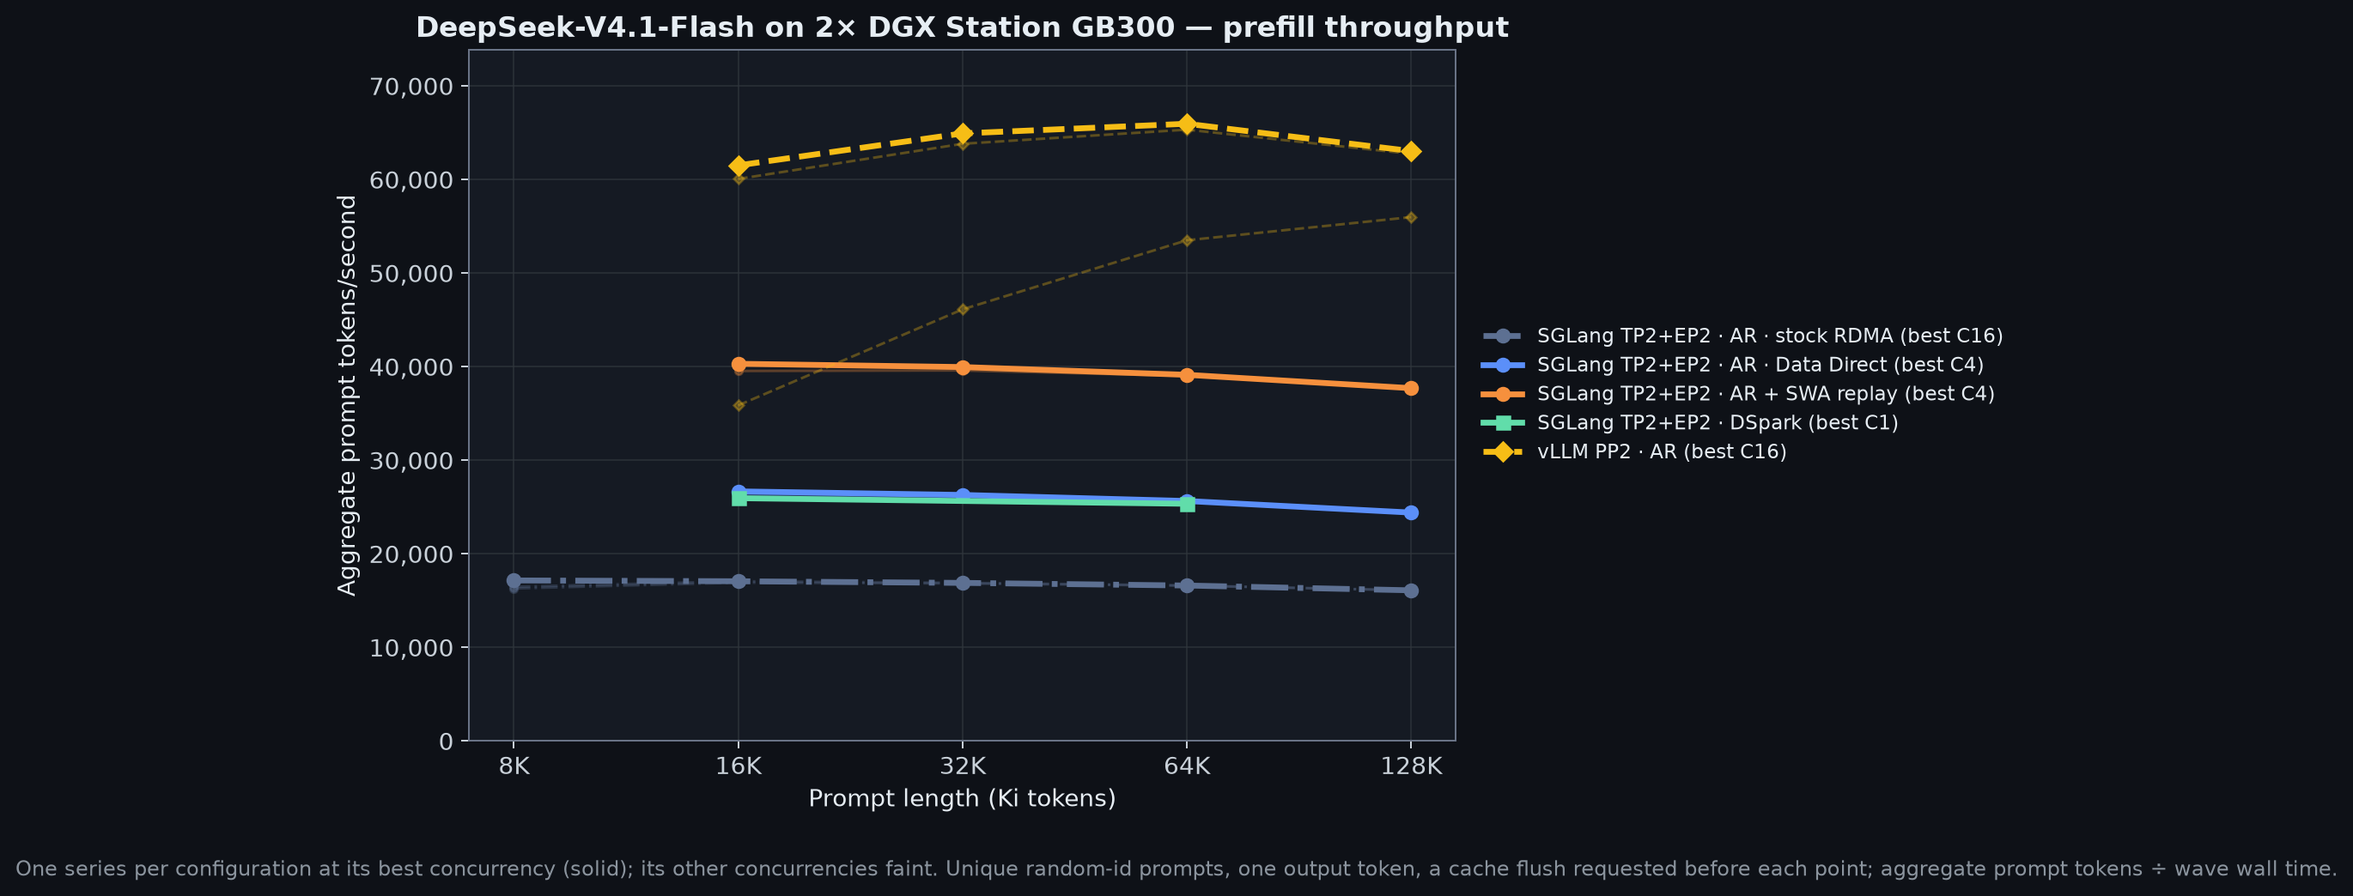
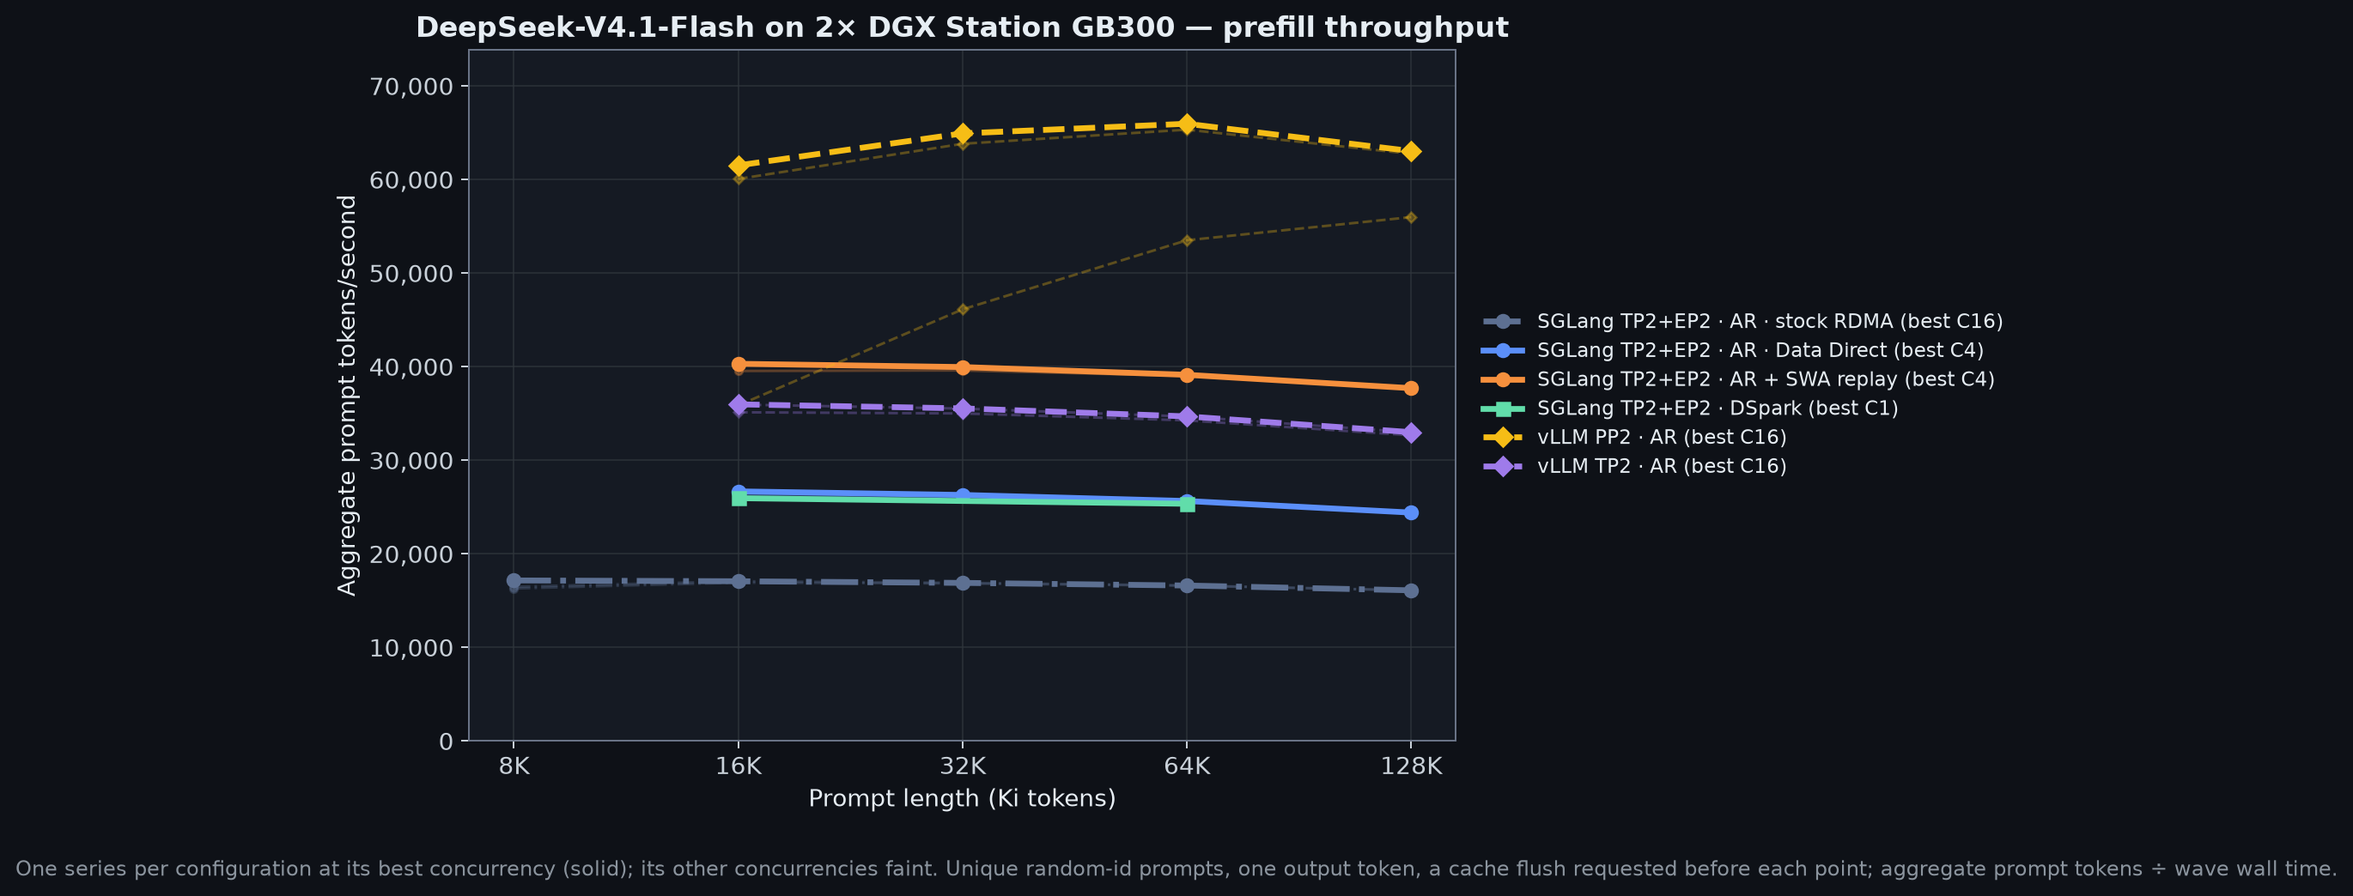
Add vLLM TP2 prefill results to the DeepSeek-V4.1-Flash section
vLLM TP2 (same deepseekv41-flash-0909 image, Data Direct RDMA, Engram
cpu_offload) prefill sweep accepted: 12/12 points, 0 errors; 32,672 prompt
tok/s for one 128K request and 34,695 aggregate at 64K C16, versus 55,992
and 65,966 for the TP1 x PP2 split of the same image (+71.4% / +90.1%).
New headline bullet, Best-numbers cells, the three prefill charts and the
detailed prefill tables in notes/ carry the new series; TP2 decode and TP2
DSpark cells remain placeholders until those lanes finish.

Claude-Session: https://claude.ai/code/session_01G6pAiZCB58AcVpxWZhJWVM

Changed region(s): [[0.3102, 0.3372, 0.8686, 0.5211]]

diff --git a/deepseek-v4.1-flash/tests/test_section_contract.py b/deepseek-v4.1-flash/tests/test_section_contract.py
@@ -43,6 +43,7 @@ HEADLINE_LANE = "sglang_tp2_ep2_ar"
 # Headline placeholder -> (lane, isl, concurrency, kind); accepted prefill rows only, as before.
 REPLAY_LANE = "sglang_tp2_ep2_ar_replay"  # accepted and ranked, but not bit-identical to the exact reference
 VLLM_PP2_LANE = "vllm_pp2_ar"  # the other engine: accepted, ranked, text-only, two local source patches
+VLLM_TP2_LANE = "vllm_tp2_ar"  # same vLLM image with tensor parallelism; the headline compares it with PP2
 HEADLINE_PREFILL = (
     ("SGLANG_PREFILL_128K_C16", HEADLINE_LANE, 131072, 16, "rate"),
     ("SGLANG_PREFILL_16K_C1", HEADLINE_LANE, 16384, 1, "rate"),
@@ -55,6 +56,8 @@ HEADLINE_PREFILL = (
     ("VLLM_PP2_TTFT_128K_C1", VLLM_PP2_LANE, 131072, 1, "ttft"),
     ("VLLM_PP2_PREFILL_64K_C16", VLLM_PP2_LANE, 65536, 16, "rate"),
     ("VLLM_PP2_PREFILL_128K_C16", VLLM_PP2_LANE, 131072, 16, "rate"),
+    ("VLLM_TP2_PREFILL_128K_C1", VLLM_TP2_LANE, 131072, 1, "rate"),
+    ("VLLM_TP2_PREFILL_64K_C16", VLLM_TP2_LANE, 65536, 16, "rate"),
 )
 # Headline placeholder -> (lane, concurrency, kind); accepted decode rows only.
 HEADLINE_DECODE = (

diff --git a/deepseek-v4.1-flash/notes/README.md b/deepseek-v4.1-flash/notes/README.md
@@ -16,18 +16,18 @@ tables in [`../data/`](../data/), which the section tests enforce.
 
 ### Prefill throughput
 
-*Best concurrency per cell, aggregate prompt tok/s; unique random-id prompts, one output token, a cache flush before every point; 16K–128K × C1/C4/C16 (the stock-path baseline also ran 8K). Both SGLang AR lanes are accepted: Data Direct (replay off) is the numerically exact full-prefill reference, and SWA replay is not bit-identical to it (see Tuning story). The vLLM PP2 lane is text-only on the default 20/20 layer split with two local source patches; its cache-flush endpoint answered 404 and its prefill-token counter shows no work was skipped (see Incidents). The DSpark prefill check is 16K/64K at C1 only. Full grids with TTFT and server-counter parity: [`prefill.csv`](../data/prefill.csv), [`diagnostic-prefill.csv`](../data/diagnostic-prefill.csv).*
+*Best concurrency per cell, aggregate prompt tok/s; unique random-id prompts, one output token, a cache flush before every point; 16K–128K × C1/C4/C16 (the stock-path baseline also ran 8K). Both SGLang AR lanes are accepted: Data Direct (replay off) is the numerically exact full-prefill reference, and SWA replay is not bit-identical to it (see Tuning story). The vLLM PP2 lane is text-only on the default 20/20 layer split with two local source patches; the vLLM TP2 lane is the same image and settings with `--tensor-parallel-size 2` (rank 0 on node1). On both vLLM lanes the cache-flush endpoint answered 404 and the prefill-token counter shows no work was skipped (see Incidents). The DSpark prefill check is 16K/64K at C1 only. Full grids with TTFT and server-counter parity: [`prefill.csv`](../data/prefill.csv), [`diagnostic-prefill.csv`](../data/diagnostic-prefill.csv).*
 
 | Prompt length | SGLang AR · stock RDMA† | SGLang AR · Data Direct | SGLang AR + SWA replay | SGLang DSpark† | vLLM PP2 · AR | vLLM TP2 · AR |
 | ---: | ---: | ---: | ---: | ---: | ---: | ---: |
-| 16K | 17,082 | 26,702 | 40,358 | 25,954 | **61,518** | {{VLLM_TP2_PREFILL_16K_BEST}} |
-| 32K | 16,910 | 26,300 | 39,967 | — | **64,935** | {{VLLM_TP2_PREFILL_32K_BEST}} |
-| 64K | 16,638 | 25,654 | 39,139 | 25,357 | **65,966** | {{VLLM_TP2_PREFILL_64K_BEST}} |
-| 128K | 16,112 | 24,419 | 37,711 | — | **63,048** | {{VLLM_TP2_PREFILL_128K_BEST}} |
+| 16K | 17,082 | 26,702 | 40,358 | 25,954 | **61,518** | 35,982 |
+| 32K | 16,910 | 26,300 | 39,967 | — | **64,935** | 35,551 |
+| 64K | 16,638 | 25,654 | 39,139 | 25,357 | **65,966** | 34,695 |
+| 128K | 16,112 | 24,419 | 37,711 | — | **63,048** | 33,010 |
 
 ### Prefill scaling with concurrency
 
-*Aggregate prompt tok/s for 64K prompts with 1, 4, and 16 requests held in flight; one row per configuration with a 64K cell. The two-stage vLLM pipeline needs more than one request in flight to fill: its C1 cell is 81% of its C16 cell, the SGLang lanes are flat across C1–C16.*
+*Aggregate prompt tok/s for 64K prompts with 1, 4, and 16 requests held in flight; one row per configuration with a 64K cell. The two-stage vLLM pipeline needs more than one request in flight to fill: its C1 cell is 81% of its C16 cell, while the SGLang lanes and vLLM TP2 are flat across C1–C16.*
 
 | Lane | C1 | C4 | C16 |
 | --- | ---: | ---: | ---: |
@@ -36,7 +36,7 @@ tables in [`../data/`](../data/), which the section tests enforce.
 | SGLang AR + SWA replay | 39,014 | 39,139 | 39,133 |
 | SGLang DSpark† | 25,357 | — | — |
 | vLLM PP2 · AR | **53,515** | **65,338** | **65,966** |
-| vLLM TP2 · AR | {{VLLM_TP2_PREFILL_64K_C1}} | {{VLLM_TP2_PREFILL_64K_C4}} | {{VLLM_TP2_PREFILL_64K_C16}} |
+| vLLM TP2 · AR | 34,270 | 34,682 | 34,695 |
 
 ### Time to first token
 
@@ -44,10 +44,10 @@ tables in [`../data/`](../data/), which the section tests enforce.
 
 | Prompt length | SGLang AR · stock RDMA† | SGLang AR · Data Direct | SGLang AR + SWA replay | SGLang DSpark† | vLLM PP2 · AR | vLLM TP2 · AR |
 | ---: | ---: | ---: | ---: | ---: | ---: | ---: |
-| 16K | 0.969s | 0.623s | **0.415s** | 0.632s | 0.458s | {{VLLM_TP2_TTFT_16K_C1}} |
-| 32K | 1.947s | 1.257s | 0.827s | — | **0.710s** | {{VLLM_TP2_TTFT_32K_C1}} |
-| 64K | 3.948s | 2.563s | 1.680s | 2.585s | **1.224s** | {{VLLM_TP2_TTFT_64K_C1}} |
-| 128K | 8.142s | 5.373s | 3.480s | — | **2.340s** | {{VLLM_TP2_TTFT_128K_C1}} |
+| 16K | 0.969s | 0.623s | **0.415s** | 0.632s | 0.458s | 0.466s |
+| 32K | 1.947s | 1.257s | 0.827s | — | **0.710s** | 0.936s |
+| 64K | 3.948s | 2.563s | 1.680s | 2.585s | **1.224s** | 1.912s |
+| 128K | 8.142s | 5.373s | 3.480s | — | **2.340s** | 4.011s |
 
 ### Decode throughput
 
@@ -115,7 +115,7 @@ tables in [`../data/`](../data/), which the section tests enforce.
 | SGLang `dev-dsv41` | TP2+EP2 | AR + SWA replay | accepted (12/12 points, 0 errors); not bit-identical to full prefill | not measured (prefill-only flag) |
 | SGLang `dev-dsv41` | TP2+EP2 | DSpark | diagnostic only: 16K/64K C1 spot check (0 errors) | accepted (C1–C32 as requested, 0 errors) |
 | vLLM `deepseekv41-flash-0909` | TP1 × PP2 | AR · text-only, two local patches | accepted (12/12 points, 0 errors) | accepted (C1–C64, 0 errors) |
-| vLLM `deepseekv41-flash-0909` | TP2 | AR | {{STATUS_VLLM_TP2_PREFILL}} | {{STATUS_VLLM_TP2_DECODE}} |
+| vLLM `deepseekv41-flash-0909` | TP2 | AR · text-only | accepted (12/12 points, 0 errors); rank 0 on node1 | {{STATUS_VLLM_TP2_DECODE}} |
 | vLLM `deepseekv41-flash-0909` | TP2 | DSpark | not measured | {{STATUS_VLLM_TP2_DSPARK_DECODE}} |
 | — | 1× GB300 | — | not attempted | not attempted |
 
@@ -262,6 +262,18 @@ one GB300. The lane ledger is [`qualification.csv`](../data/qualification.csv).
 - Sanity: the lane's chat checks answered 17 × 19 = 323 and the 3:40 pm to
   6:05 pm trip as 145 minutes (`logs/chat-vllm-pp2-ar.txt` in the private
   working directory).
+- **TP2 on the same image** (lane `vllm_tp2_ar`, `--tensor-parallel-size 2
+  --pipeline-parallel-size 1`, otherwise identical settings; launched with
+  `SWAP_RANKS=1`, so vLLM rank 0 ran on node1): 16K 35,134 / 35,958 / 35,982; 32K 35,011 / 35,530 / 35,551; 64K 34,270 / 34,682 / 34,695; 128K 32,672 / 32,992 / 33,010 aggregate prompt tok/s
+  at C1 / C4 / C16 (12/12 points, 0 errors); C1 TTFT 0.466 s / 0.936 s / 1.912 s / 4.011 s. Like the
+  SGLang tensor-parallel lanes it is flat in concurrency, because every layer
+  ends in a cross-node all-reduce, so the pipeline split wins by +71.4% for a
+  single 128K request (55,992 versus 32,672) and +90.1% at 64K / C16 (65,966
+  versus 34,695). TP2 also trails SGLang's SWA-replay lane (−11.3% at
+  64K / C16, −13.3% for one 128K request) while beating exact full prefill
+  (+35.3% and +33.9%). The sampled GPU (node0, TP rank 1 in this launch) drew
+  972–1,039 W mean at the C4/C16 points. Its AR decode
+  sweep was still running when this was written.
 
 ## Profiles
 
@@ -373,7 +385,8 @@ one GB300. The lane ledger is [`qualification.csv`](../data/qualification.csv).
   launch failed before any GPU work because the remote rank re-sourced
   `config.env` with the already-swapped values and swapped them back
   (checkpoint index reported missing); the `SWAP_APPLIED` guard now applies
-  the swap once. To rule out the transport, a seven-configuration host-side
+  the swap once, and the relaunch with it produced the accepted TP2 prefill
+  lane. To rule out the transport, a seven-configuration host-side
   NCCL bisect (`results/fabric/bisect/*.log`: `all_reduce_perf` 256 MiB–1 GiB
   with dual/single rail, DMA-BUF on/off, GDR on/off, cuMem on/off, Data Direct
   on/off, 10 iterations each) changed idle HBM by at most 23 MiB per run on
@@ -400,7 +413,9 @@ one GB300. The lane ledger is [`qualification.csv`](../data/qualification.csv).
   repository.
 - GPU utilisation and power are sampled on node0 only; for the vLLM PP2 lane
   node0 is pipeline stage 0 (the stage that holds both Engram layers), whose
-  1,092–1,219 W mean draw at C4/C16 says nothing about stage 1.
+  1,092–1,219 W mean draw at C4/C16 says nothing about stage 1. For the vLLM
+  TP2 lane, launched with `SWAP_RANKS=1`, node0 is TP rank 1, which does the
+  same work as rank 0.
 - vLLM's cache-flush endpoint answered 404 on this image; the prompts are
   unique per request and the server's prefill-token counter matched the client
   at every point, so no cached prefix was reused, but the flush itself did not
@@ -427,9 +442,9 @@ one GB300. The lane ledger is [`qualification.csv`](../data/qualification.csv).
   settings excluded by the bisect above). The OS-reboot-between-lanes
   workaround and `SWAP_RANKS=1` are in the recipe; the vendor question is
   open.
-- vLLM TP2 and TP2 DSpark lanes are pending: their first queued attempt with
-  `SWAP_RANKS=1` did not launch (see Incidents), and their prefill/decode
-  grids fill the remaining placeholders once they complete error-free. vLLM's
-  DSpark runner rejects pipeline parallelism, so there is no PP2 DSpark lane.
+- The vLLM TP2 AR prefill grid is accepted; its AR decode sweep and the TP2
+  DSpark decode lane were still running when this was written and fill the
+  remaining placeholders once they complete error-free. vLLM's DSpark runner
+  rejects pipeline parallelism, so there is no PP2 DSpark lane.
 - A SGLang DSpark C64 decode point is queued; the accepted DSpark lane was
   requested at C1–C32.

diff --git a/deepseek-v4.1-flash/README.md b/deepseek-v4.1-flash/README.md
@@ -1,6 +1,6 @@
 # DeepSeek-V4.1-Flash on 2× NVIDIA GB300 DGX Stations
 
-The official [`deepseek-ai/DeepSeek-V4.1-Flash`](https://huggingface.co/deepseek-ai/DeepSeek-V4.1-Flash) checkpoint at revision `dba1be0a40aa45a94ad051997016db3960a90277` (48 native FP8-dense / FP4-expert shards, 510,286,023,000 bytes, more than one GB300 holds), served across two DGX Stations over dual 400GbE RoCE rails by SGLang (TP2+EP2) and vLLM (TP1 × PP2; the TP2 and DSpark lanes are pending), autoregressive and with DSpark speculative decoding.
+The official [`deepseek-ai/DeepSeek-V4.1-Flash`](https://huggingface.co/deepseek-ai/DeepSeek-V4.1-Flash) checkpoint at revision `dba1be0a40aa45a94ad051997016db3960a90277` (48 native FP8-dense / FP4-expert shards, 510,286,023,000 bytes, more than one GB300 holds), served across two DGX Stations over dual 400GbE RoCE rails by SGLang (TP2+EP2) and vLLM (TP1 × PP2 and TP2; the vLLM TP2 decode and DSpark lanes are pending), autoregressive and with DSpark speculative decoding.
 
 [![vLLM PP2 social clip: one 128K request across two DGX Stations](assets/fly-vllm-preview.gif)](assets/fly-vllm-2xdgx.mp4)
 
@@ -13,6 +13,7 @@ The official [`deepseek-ai/DeepSeek-V4.1-Flash`](https://huggingface.co/deepseek
 ## Headline
 
 - **55,992 prompt tok/s** for a single 128K request (TTFT **2.340s**) and **65,966 aggregate prompt tok/s** at 64K / C16 (**63,048** at 128K / C16) — vLLM TP1 × PP2 over Data Direct RDMA, text-only, with the two local source patches this image needs to start under pipeline parallelism. At those three points that is +48.6% / +68.6% / +67.3% over SGLang's SWA-replay lane (37,674 / 39,133 / 37,693) and +129.5% / +157.3% / +158.2% over SGLang's exact full prefill (24,394 / 25,638 / 24,419).
+- On the same vLLM image the pipeline split beats splitting every layer: PP2 delivers **55,992** versus **32,672 prompt tok/s** for one 128K request (+71.4%) and **65,966** versus **34,695** at 64K / C16 (+90.1%) over TP2, which pays a cross-node all-reduce in every layer while PP2 keeps both Engram layers on one stage.
 - SGLang TP2+EP2 with SWA bounded replay (the deployment technique DeepSeek's V4.1 report describes; faster than full prefill but not bit-identical to it): **39,549 tok/s** for a single 16K request (TTFT **0.415s**; a 128K prompt in **3.480s**) and **37,693 prompt tok/s** at 128K / C16 — the fastest single 16K request of any lane.
 - Exact full prefill (SGLang, replay off, the numerically exact reference): **24,419 prompt tok/s** at 128K / C16 and **26,316 tok/s** for a single 16K request (TTFT **0.623s**).
 - Per-user decode at C1: SGLang DSpark **180.0 tok/s per user at C1** (2.80 accepted tokens per step) versus **106.8 tok/s** SGLang autoregressive; vLLM PP2 autoregressive **141.3 tok/s**, ahead of SGLang autoregressive at every concurrency and of DSpark from C4 upward.
@@ -29,7 +30,7 @@ The official [`deepseek-ai/DeepSeek-V4.1-Flash`](https://huggingface.co/deepseek
 | SGLang AR + SWA replay | 37,674 | 39,133 | — | — |
 | SGLang DSpark† | — | — | **180.0** | — |
 | vLLM PP2 · AR | **55,992** | **65,966** | 141.3 | **2,805.9** |
-| vLLM TP2 · AR | {{VLLM_TP2_PREFILL_128K_C1}} | {{VLLM_TP2_PREFILL_64K_C16}} | {{VLLM_TP2_USER_C1}} | {{VLLM_TP2_DECODE_C64}} |
+| vLLM TP2 · AR | 32,672 | 34,695 | {{VLLM_TP2_USER_C1}} | {{VLLM_TP2_DECODE_C64}} |
 | vLLM TP2 · DSpark | — | — | {{VLLM_TP2_DSPARK_USER_C1}} | {{VLLM_TP2_DSPARK_DECODE_C64}} |
 
 *Prompt tok/s for one 128K request and aggregate at 64K with 16 requests in flight; output tok/s per user at C1 and aggregate at C64. Bold is the best accepted value in the column, † a diagnostic lane that is drawn but never ranked, — a point outside the lane's measured grid. Every measured configuration is its own series on every chart; accepted lanes rank, and the replay-off SGLang lane is the numerically exact reference. One station was not attempted. Full per-lane grids with TTFT, ITL, and accept lengths: [notes/](notes/).*
@@ -44,7 +45,7 @@ The official [`deepseek-ai/DeepSeek-V4.1-Flash`](https://huggingface.co/deepseek
 
 ![DeepSeek-V4.1-Flash prefill throughput at 64K by concurrency](charts/prefill-concurrency.png)
 
-*64K prompts with 1, 4, and 16 requests in flight. The two-stage vLLM pipeline needs more than one request to fill (its C1 bar is 81% of its C16 bar); the SGLang lanes are flat across C1–C16.*
+*64K prompts with 1, 4, and 16 requests in flight. The two-stage vLLM pipeline needs more than one request to fill (its C1 bar is 81% of its C16 bar); the SGLang lanes and vLLM TP2 are flat across C1–C16.*
 
 ## Time to first token
 

diff --git a/deepseek-v4.1-flash/notes/PLACEHOLDERS.md b/deepseek-v4.1-flash/notes/PLACEHOLDERS.md
@@ -11,7 +11,6 @@ placeholder for a pending run.
 | --- | --- | --- |
 | `{{STATUS_VLLM_TP2_DECODE}}` | notes/README.md | lane disposition wording for the 'What was measured' table (accepted / pending / diagnostic only / failed: reason) |
 | `{{STATUS_VLLM_TP2_DSPARK_DECODE}}` | notes/README.md | lane disposition wording for the 'What was measured' table (accepted / pending / diagnostic only / failed: reason) |
-| `{{STATUS_VLLM_TP2_PREFILL}}` | notes/README.md | lane disposition wording for the 'What was measured' table (accepted / pending / diagnostic only / failed: reason) |
 | `{{VLLM_TP2_DECODE_C16}}` | notes/README.md | throughput.csv aggregate_output_tokens_per_second, vLLM TP2 AR, f'{v:,.1f}' |
 | `{{VLLM_TP2_DECODE_C1}}` | notes/README.md | throughput.csv aggregate_output_tokens_per_second, vLLM TP2 AR, f'{v:,.1f}' |
 | `{{VLLM_TP2_DECODE_C32}}` | notes/README.md | throughput.csv aggregate_output_tokens_per_second, vLLM TP2 AR, f'{v:,.1f}' |
@@ -27,22 +26,10 @@ placeholder for a pending run.
 | `{{VLLM_TP2_DSPARK_USER_C32}}` | notes/README.md | throughput.csv per_user_output_tokens_per_second_p50, vLLM TP2 DSpark, f'{v:,.1f}' |
 | `{{VLLM_TP2_DSPARK_USER_C4}}` | notes/README.md | throughput.csv per_user_output_tokens_per_second_p50, vLLM TP2 DSpark, f'{v:,.1f}' |
 | `{{VLLM_TP2_DSPARK_USER_C64}}` | notes/README.md | throughput.csv per_user_output_tokens_per_second_p50, vLLM TP2 DSpark, f'{v:,.1f}' |
-| `{{VLLM_TP2_PREFILL_128K_BEST}}` | notes/README.md | prefill.csv aggregate_prompt_tokens_per_second, vllm/cross_node_tp2/ar, f'{v:,.0f}' |
-| `{{VLLM_TP2_PREFILL_128K_C1}}` | README.md | prefill.csv aggregate_prompt_tokens_per_second at 128K C1, vllm/cross_node_tp2/ar, f'{v:,.0f}' |
-| `{{VLLM_TP2_PREFILL_16K_BEST}}` | notes/README.md | prefill.csv aggregate_prompt_tokens_per_second, vllm/cross_node_tp2/ar, f'{v:,.0f}' |
-| `{{VLLM_TP2_PREFILL_32K_BEST}}` | notes/README.md | prefill.csv aggregate_prompt_tokens_per_second, vllm/cross_node_tp2/ar, f'{v:,.0f}' |
-| `{{VLLM_TP2_PREFILL_64K_BEST}}` | notes/README.md | prefill.csv aggregate_prompt_tokens_per_second, vllm/cross_node_tp2/ar, f'{v:,.0f}' |
-| `{{VLLM_TP2_PREFILL_64K_C16}}` | README.md, notes/README.md | prefill.csv aggregate_prompt_tokens_per_second, vllm/cross_node_tp2/ar, f'{v:,.0f}' |
-| `{{VLLM_TP2_PREFILL_64K_C1}}` | notes/README.md | prefill.csv aggregate_prompt_tokens_per_second, vllm/cross_node_tp2/ar, f'{v:,.0f}' |
-| `{{VLLM_TP2_PREFILL_64K_C4}}` | notes/README.md | prefill.csv aggregate_prompt_tokens_per_second, vllm/cross_node_tp2/ar, f'{v:,.0f}' |
-| `{{VLLM_TP2_TTFT_128K_C1}}` | notes/README.md | prefill.csv ttft_p50_seconds at C1, vLLM TP2 lane, f'{v:.3f}s' |
-| `{{VLLM_TP2_TTFT_16K_C1}}` | notes/README.md | prefill.csv ttft_p50_seconds at C1, vLLM TP2 lane, f'{v:.3f}s' |
-| `{{VLLM_TP2_TTFT_32K_C1}}` | notes/README.md | prefill.csv ttft_p50_seconds at C1, vLLM TP2 lane, f'{v:.3f}s' |
-| `{{VLLM_TP2_TTFT_64K_C1}}` | notes/README.md | prefill.csv ttft_p50_seconds at C1, vLLM TP2 lane, f'{v:.3f}s' |
 | `{{VLLM_TP2_USER_C16}}` | notes/README.md | throughput.csv per_user_output_tokens_per_second_p50, vLLM TP2 AR, f'{v:,.1f}' |
 | `{{VLLM_TP2_USER_C1}}` | README.md, notes/README.md | throughput.csv per_user_output_tokens_per_second_p50, vLLM TP2 AR, f'{v:,.1f}' |
 | `{{VLLM_TP2_USER_C32}}` | notes/README.md | throughput.csv per_user_output_tokens_per_second_p50, vLLM TP2 AR, f'{v:,.1f}' |
 | `{{VLLM_TP2_USER_C4}}` | notes/README.md | throughput.csv per_user_output_tokens_per_second_p50, vLLM TP2 AR, f'{v:,.1f}' |
 | `{{VLLM_TP2_USER_C64}}` | notes/README.md | throughput.csv per_user_output_tokens_per_second_p50, vLLM TP2 AR, f'{v:,.1f}' |
 
-35 placeholders.
+22 placeholders.

diff --git a/deepseek-v4.1-flash/data/README.md b/deepseek-v4.1-flash/data/README.md
@@ -13,13 +13,15 @@ Every table is produced by [`build_data.py`](build_data.py) from the manifest
   `prompt_tokens_total` counter delta, token-count parity, rank-0 GPU
   utilisation/power, the run id, and the SHA-256 of the source JSONL. A lane is
   accepted only when its full 16K/32K/64K/128K × C1/C4/C16 grid completed with
-  zero request errors. Three lanes are accepted: the replay-off SGLang Data
+  zero request errors. Four lanes are accepted: the replay-off SGLang Data
   Direct lane (`swa_bounded_replay=false`, the numerically exact full-prefill
   reference), the SGLang SWA bounded replay lane (`swa_bounded_replay=true`,
   DeepSeek's documented deployment technique, faster and not bit-identical),
-  and the vLLM TP1 × PP2 lane (text-only, two local source patches; its
-  `server_prompt_tokens_delta` comes from the `vllm:prompt_tokens_total`
-  counter and its GPU columns were sampled on node0 = pipeline stage 0).
+  the vLLM TP1 × PP2 lane (text-only, two local source patches; its GPU
+  columns were sampled on node0 = pipeline stage 0), and the vLLM TP2 lane
+  (same image and settings; launched with rank 0 on node1, so its GPU columns
+  describe TP rank 1). Both vLLM lanes take `server_prompt_tokens_delta` from
+  the `vllm:prompt_tokens_total` counter.
 - `diagnostic-prefill.csv` — the same columns plus `diagnostic_status`, for
   tuning-ladder steps and spot checks that are never ranked
   (`publication_status=diagnostic`, `rankable=false`) but are still drawn as
